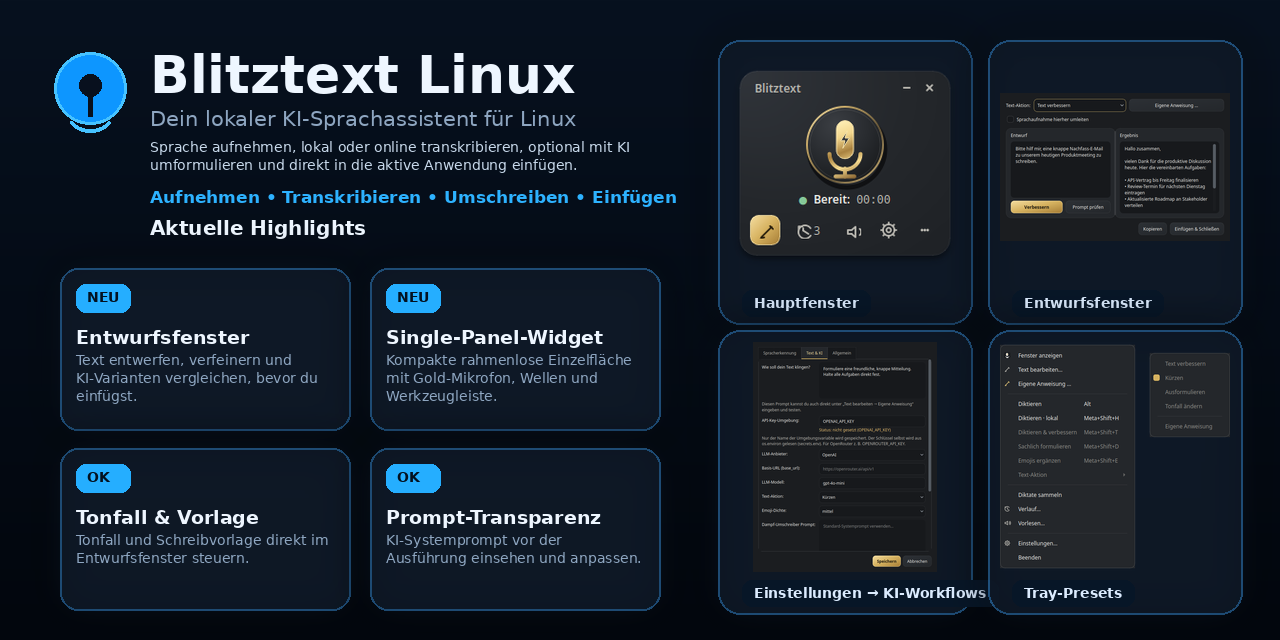
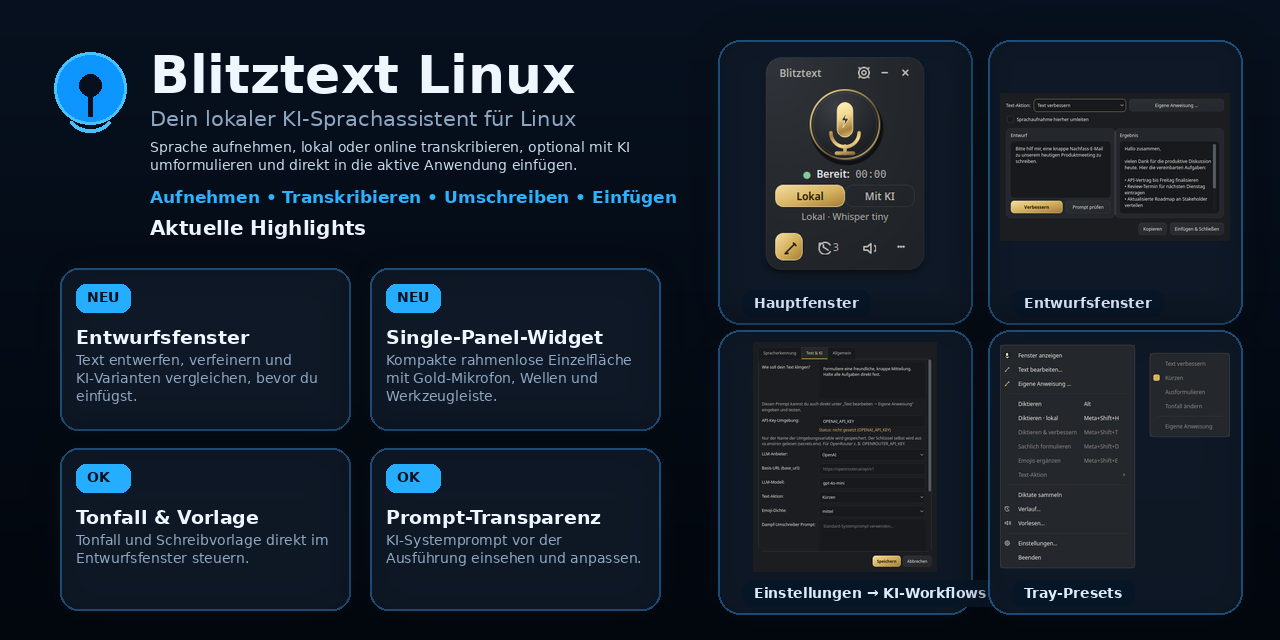
docs: README and screenshots for the Local | With AI switch; keep the exact workflow when the active side is clicked

Changed region(s): [[0.5625, 0.0625, 0.7188, 0.4062]]

diff --git a/tests/test_mode_switch_ui.py b/tests/test_mode_switch_ui.py
@@ -156,3 +156,16 @@ def test_action_combo_lists_only_ai_actions_and_sets_the_workflow(qapp):
     target = next(w for w in items if w != window._selected_workflow())
     window._action_combo.setCurrentIndex(window._action_combo.findData(target))
     assert window._selected_workflow() == target
+
+
+@gui_only
+def test_clicking_the_side_that_is_already_active_keeps_the_workflow(qapp):
+    from app.workflows import WorkflowType
+
+    window = _window(qapp)
+    window.update_state("IDLE", WorkflowType.LOCAL, None)
+    window._seg_local.click()
+    assert window._selected_workflow() == WorkflowType.LOCAL
+    window.update_state("IDLE", WorkflowType.EMOJI_TEXT, None)
+    window._seg_ai.click()
+    assert window._selected_workflow() == WorkflowType.EMOJI_TEXT

diff --git a/app/main_window.py b/app/main_window.py
@@ -517,6 +517,9 @@ class MainWindow(QWidget):
 
     def _set_ai_mode(self, ai: bool) -> None:
         """The switch picks a workflow; AI remembers the last AI action."""
+        if (self._selected_workflow() in LLM_WORKFLOWS) == ai:
+            self._sync_mode_widgets()
+            return  # already on that side: keep the exact workflow (e.g. LOCAL, EMOJI_TEXT)
         workflow = self._last_ai_workflow if ai else WorkflowType.TRANSCRIPTION
         index = self._workflow_combo.findData(workflow)
         if index >= 0:

diff --git a/README.de.md b/README.de.md
@@ -209,7 +209,7 @@ Das Hauptfenster ist ein kompaktes, rahmenloses Desktop-Widget mit einheitlicher
       <td align="center" width="25%">
         <img src="docs/screenshots/linux/main-menu-de.png" width="170"><br><br>
         <b>Aktions-Menü</b><br>
-        <i>Workflows und Schnellzugriff direkt am Widget.</i>
+        <i>Details zur gewählten Seite: Aktion, Stil, KI-Anbieter, Whisper-Modell.</i>
       </td>
     </tr>
   </table>
@@ -220,12 +220,13 @@ Das Hauptfenster ist ein kompaktes, rahmenloses Desktop-Widget mit einheitlicher
   - **Bereit (IDLE):** Grüner Statuspunkt und Zeitanzeige (`Bereit: 00:00`).
   - **Aufnahme (RECORDING):** Gelber Statuspunkt, sekundengenaue Zeitanzeige und animierte Wellenbalken links und rechts des Mikrofons.
   - **Verarbeitung (TRANSCRIBING):** Rotierender goldener Kreisbogen um das Mikrofon (`Transkribiere…`).
+- **Umschalter Lokal | Mit KI:** Zwei Knöpfe direkt unter dem Mikrofon. **Lokal** = nur lokale Whisper-Transkription, nichts verlässt den Rechner. **Mit KI** = lokal transkribieren, danach bearbeitet dein Cloud-KI-Anbieter den Text. Die gewählte Seite ist gold; die Zustandszeile darunter (zum Beispiel `Lokal · Whisper base` oder `Mit KI · OpenAI · Verbessern`) zeigt, was die nächste Aufnahme tut, und öffnet per Klick das Detail-Popup. Hotkey-Workflows stellen den Umschalter auf die passende Seite, während der Aufnahme ist er gesperrt.
 - **Kompakte Werkzeugleiste:**
   - ✍ **Compose-Button** (hervorgehobenes Stift-Symbol): Öffnet das Entwurfsfenster für Texteingabe und KI-Verfeinerung.
   - 🕒 **Verlauf-Button** (mit Zähler-Badge): Öffnet den Transkript- und Diktat-Verlauf.
   - 🔊 **Vorlesen-Button** (Lautsprecher-Symbol): Öffnet das TTS-Fenster zur Sprachausgabe.
-  - ⚙ **Einstellungen-Button** (Zahnrad): Öffnet den Konfigurations-Dialog.
-  - ⋯ **Mehr-Button**: Öffnet das Popup-Menü für *Diktieren & verbessern*, Text-Aktionen (*Kürzen*, *Ausformulieren*, *Tonfall ändern*), *Eigene Anweisung*, *Sammel-Diktat* und *Verwerfen*.
+  - ⋯ **Mehr-Button** (gleiches Popup wie die Zustandszeile): Zeigt nur die Felder, die zur gewählten Seite passen — *Lokal*: Whisper-Modell; *Mit KI*: Aktion (*Diktieren & verbessern*, *Sachlich formulieren*, *Emojis ergänzen*), Schreibstil für *Diktieren & verbessern* (*Kürzen*, *Ausformulieren*, *Tonfall ändern*, *Eigene Anweisung*), KI-Anbieter (OpenAI oder OpenRouter; einen eigenen Endpunkt änderst du nur in den Einstellungen) und Whisper-Modell. Ein **Fertig**-Knopf schließt das Popup; *Sammel-Diktat* und *Verwerfen* stehen darunter. Der Anbieterwechsel braucht die passende API-Key-Variable, größere Whisper-Modelle fragen vorher, weil sie heruntergeladen werden können.
+- **Einstellungs-Zahnrad:** Kleiner ⚙-Knopf in der Titelleiste neben Minimieren und Schließen; öffnet den Konfigurations-Dialog.
 
 *Das Widget öffnet sich beim Start sowie über den Tray-Eintrag **Fenster anzeigen** oder einen Klick auf das Tray-Icon. Schließen blendet das Widget aus — die App läuft im Hintergrund im Tray weiter.*
 

diff --git a/README.md b/README.md
@@ -208,7 +208,7 @@ The main window is a compact, frameless desktop widget with a consistent dark lo
       <td align="center" width="25%">
         <img src="docs/screenshots/linux/main-menu-en.png" width="170"><br><br>
         <b>Options menu</b><br>
-        <i>Workflows and quick actions.</i>
+        <i>Details for the chosen side: action, style, AI provider, Whisper model.</i>
       </td>
     </tr>
   </table>
@@ -219,12 +219,13 @@ The main window is a compact, frameless desktop widget with a consistent dark lo
   - **Idle:** Green status dot with duration counter (`Ready: 00:00`).
   - **Recording:** Amber indicator, live recording timer, and animated stereo wave bars flanking the mic.
   - **Processing:** Rotating gold progress ring around the microphone (`Transcribing…`).
+- **Local | With AI switch:** Two buttons right under the microphone. **Local** = local Whisper transcription only, nothing leaves your machine. **With AI** = local transcription, then the text is edited by your cloud AI provider. The chosen side is gold; the state line below it (for example `Local · Whisper base` or `With AI · OpenAI · Improve`) shows what the next recording does and opens the details popup when clicked. Hotkey workflows move the switch to the matching side, and it is locked while recording.
 - **Tool row:**
   - ✍ **Compose button** (highlighted pen icon): Opens the Compose window for drafting and rewriting.
   - 🕒 **History button** (with counter badge): Opens the transcript history with recent entries.
   - 🔊 **Read aloud button** (speaker icon): Opens the TTS window to synthesize speech.
-  - ⚙ **Settings button** (gear icon): Opens the settings dialog.
-  - ⋯ **More options button**: Pops up quick access to *Dictate & improve*, text improvement presets (*Shorten*, *Expand*, *Change tone*), *Custom instruction*, *Batch dictation*, and *Discard*.
+  - ⋯ **More options button** (same popup as the state line): Shows only the fields that apply to the chosen side — *Local*: Whisper model; *With AI*: action (*Dictate & improve*, *Make it factual*, *Add emojis*), the writing style for *Dictate & improve* (*Shorten*, *Expand*, *Change tone*, *Custom instruction*), the AI provider (OpenAI or OpenRouter; a custom endpoint is changed in the settings only), and the Whisper model. A **Done** button closes the popup; *Batch dictation* and *Discard* sit below it. Switching the AI provider needs the matching API key variable; larger Whisper models ask before they may be downloaded.
+- **Settings gear:** Small ⚙ button in the title bar next to minimize and close; opens the settings dialog.
 
 *The widget opens at startup, via the tray entry **Show window**, or by clicking the tray icon. Closing only hides the widget — the app keeps running in the background tray.*
 
